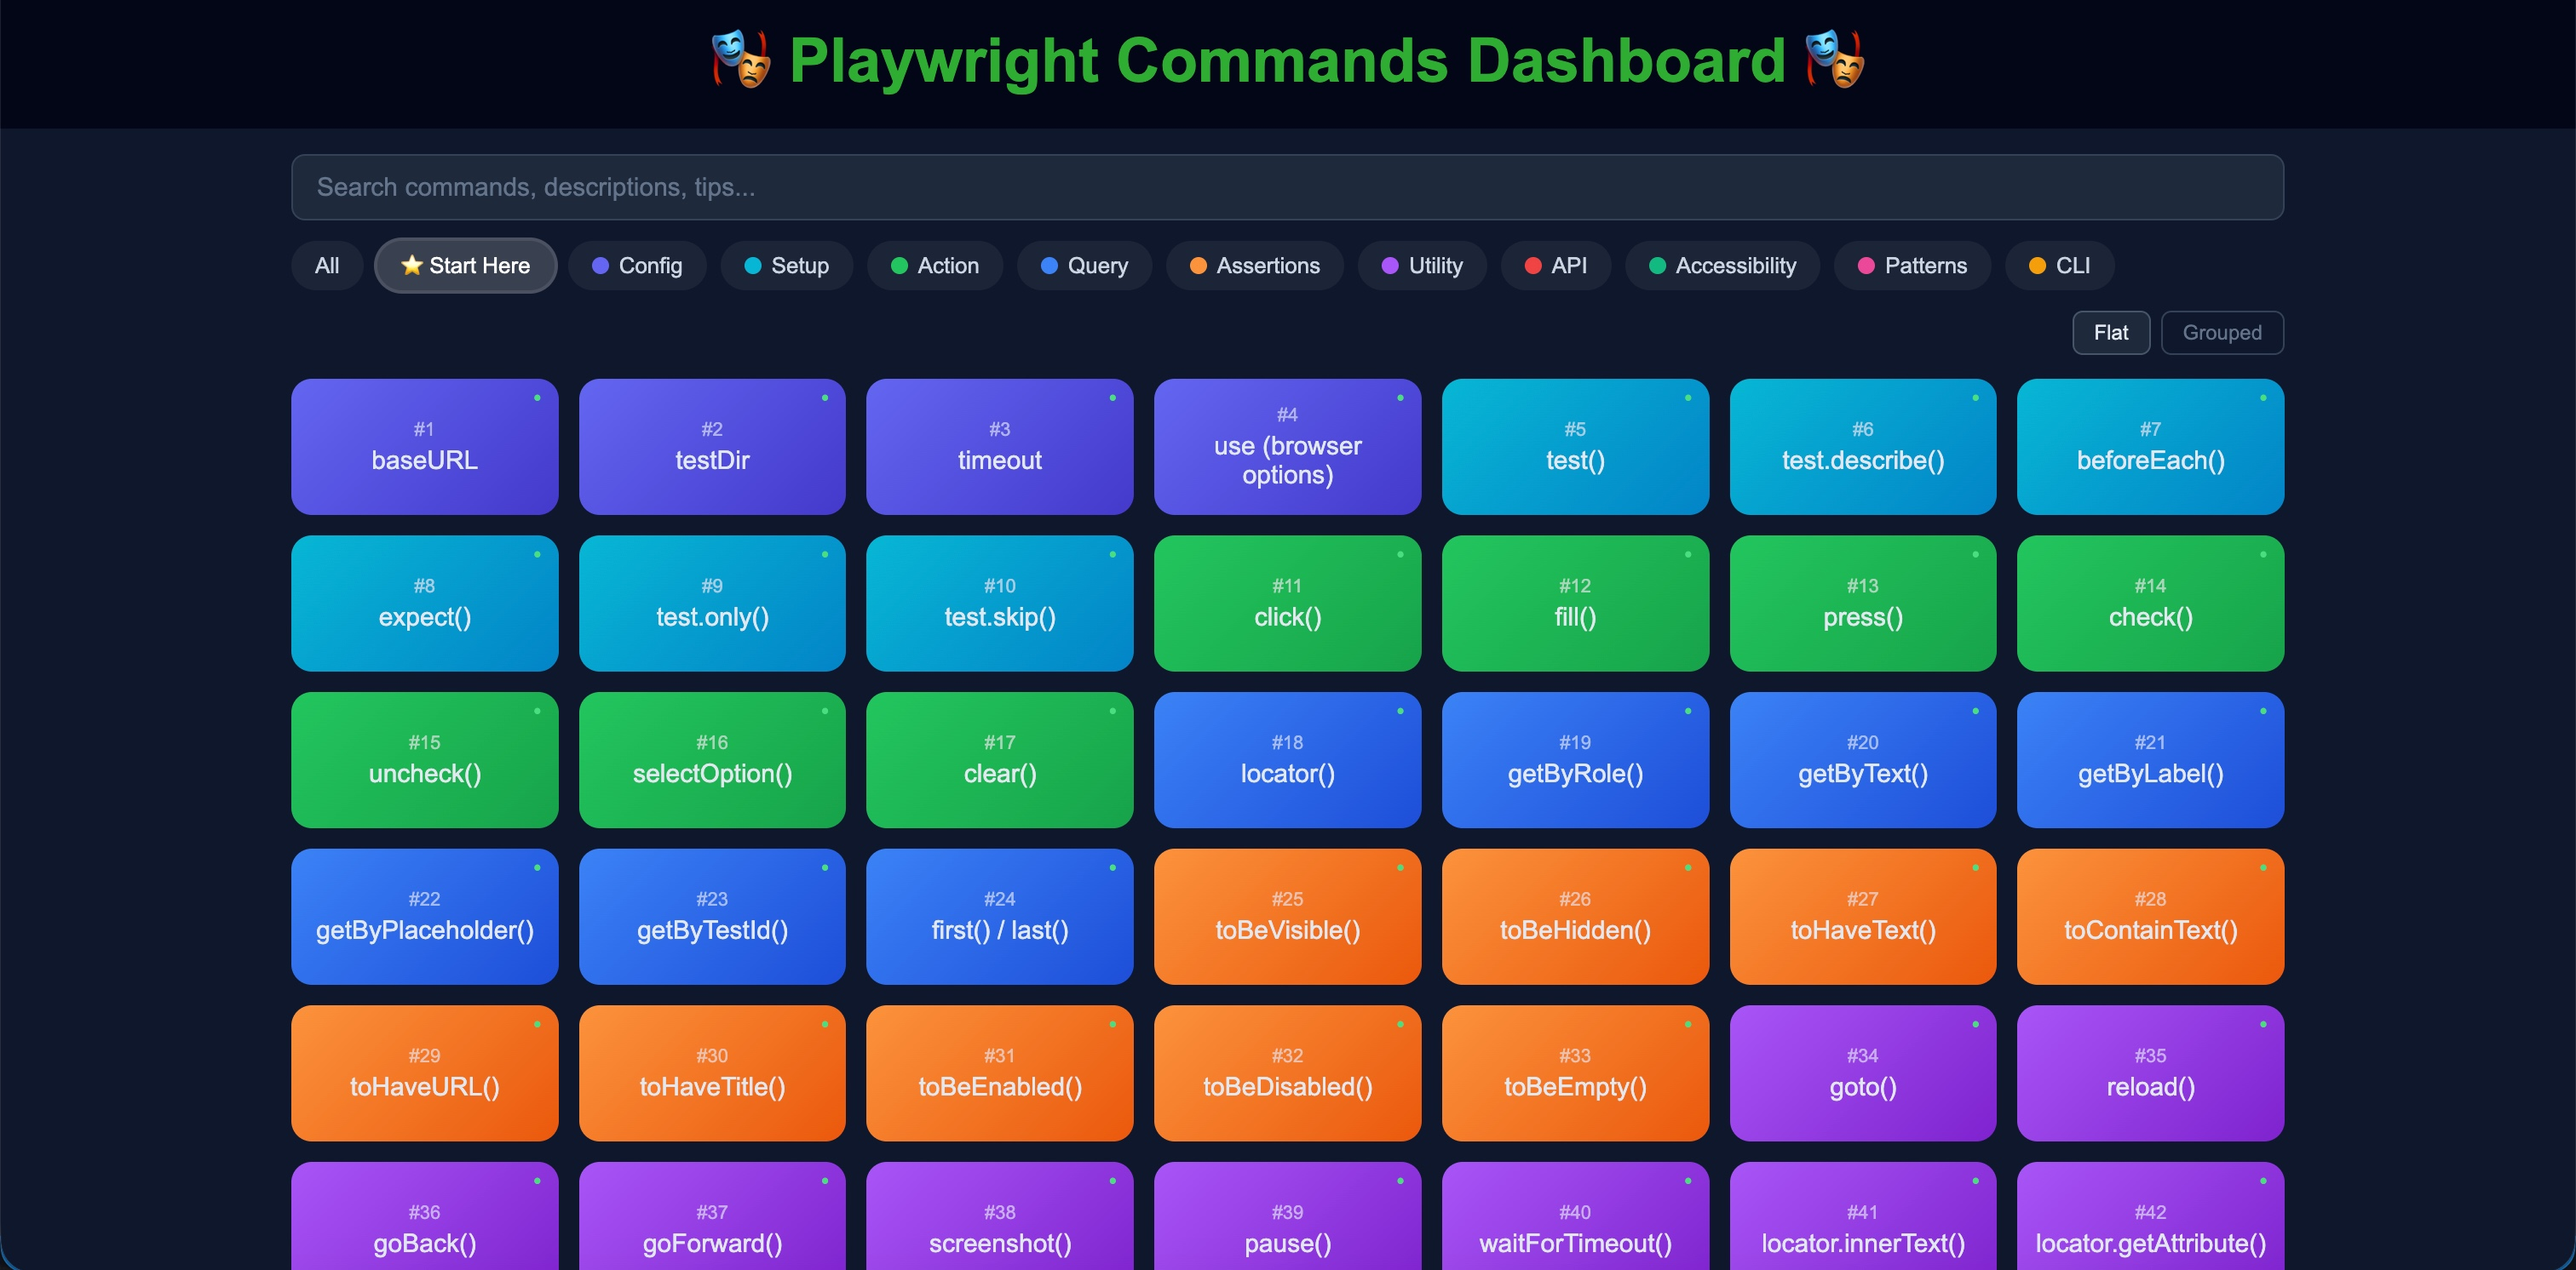
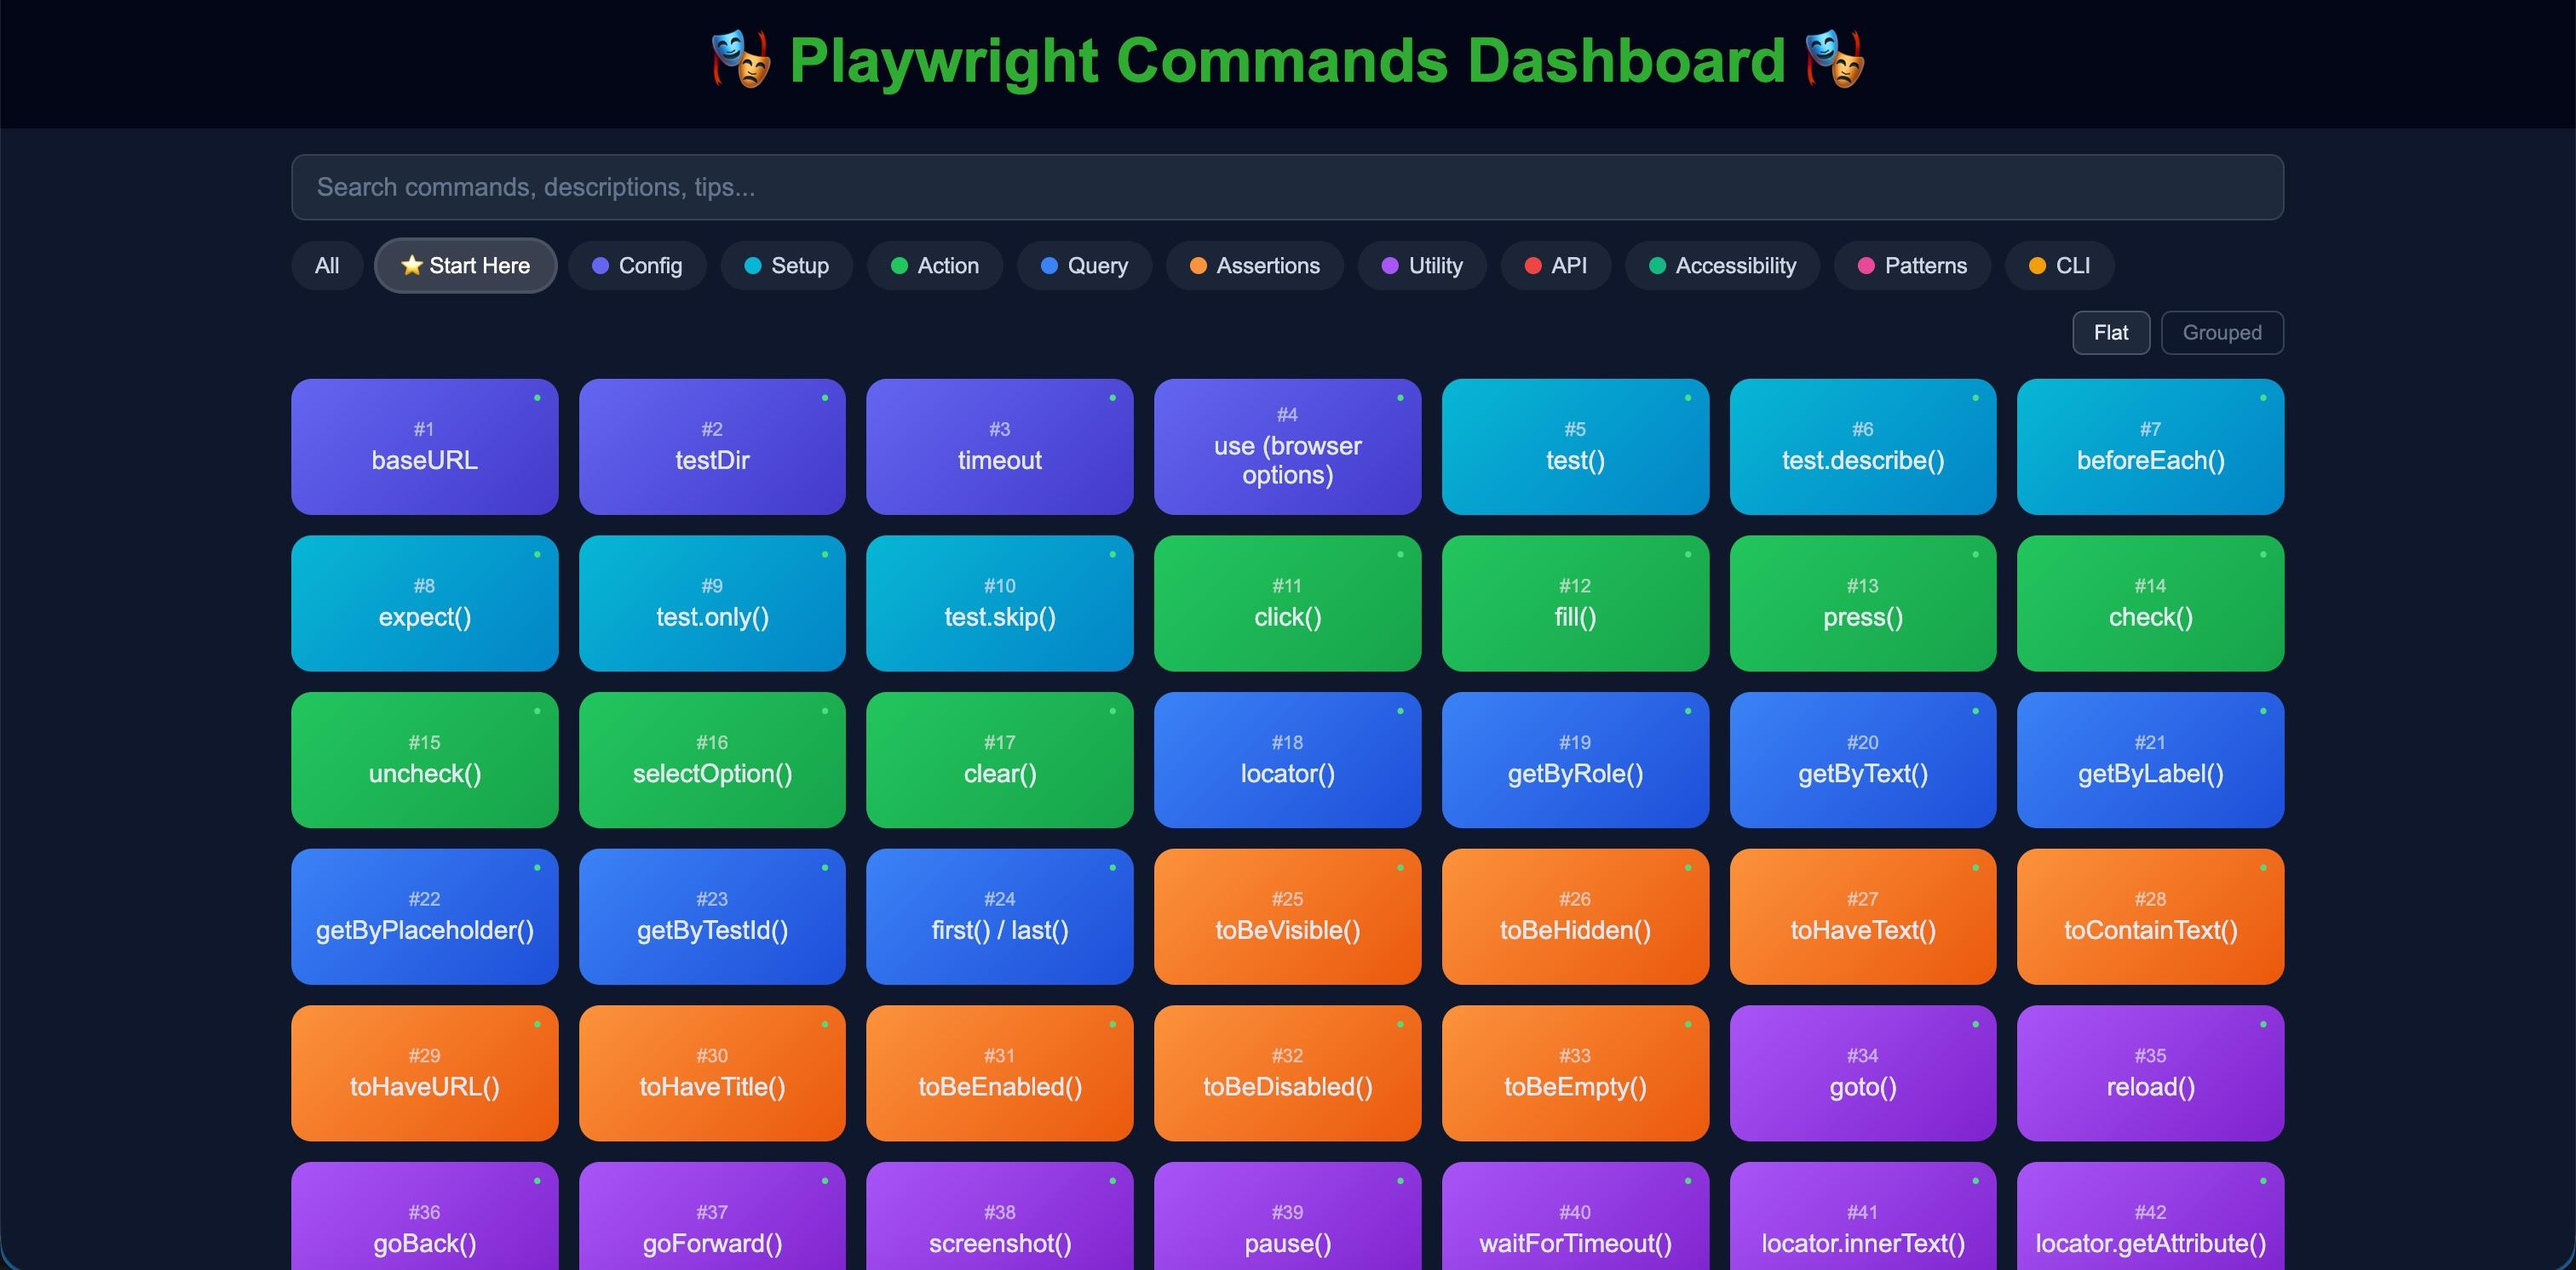
feat: add URL deep-linking, keyboard shortcut, and compressed images
- URL-shareable state: filter and search are reflected in the URL hash
  so users can bookmark or share specific views (e.g. #filter=Action&search=click)
- Keyboard shortcut: Ctrl+K / ⌘K focuses the search input; hint shown in
  the search bar adapts to Mac vs non-Mac platforms
- Image compression: dashboard.jpeg 608K→240K, description.png 746K→160K
  (converted to jpg); total saving ~870KB from the repo

https://claude.ai/code/session_01DCNpiST4oMDFgVBmtSh1Ww

Changed region(s): [[0.4663, 0.8324, 0.5284, 0.8633], [0.7149, 0.7091, 0.746, 0.7399]]

diff --git a/js/app.js b/js/app.js
@@ -159,12 +159,34 @@ function copyCode() {
   }, 2000);
 }
 
+/* ── URL STATE ────────────────────────────────────────────────── */
+function updateHash() {
+  const params = new URLSearchParams();
+  if (activeFilter !== 'all') params.set('filter', activeFilter);
+  if (searchVal) params.set('search', searchVal);
+  const qs = params.toString();
+  history.replaceState(null, '', qs ? '#' + qs : location.pathname + location.search);
+}
+
+function readHash() {
+  if (!location.hash) return;
+  const params = new URLSearchParams(location.hash.slice(1));
+  const filter = params.get('filter');
+  const search = params.get('search');
+  if (filter) activeFilter = filter;
+  if (search) {
+    searchVal = search.toLowerCase();
+    document.getElementById('search-input').value = search;
+  }
+}
+
 /* ── FILTERS & VIEW ───────────────────────────────────────────── */
 function setFilter(f) {
   activeFilter = f;
   document.querySelectorAll('.filter-btn').forEach(b =>
     b.classList.toggle('active', b.dataset.filter === f)
   );
+  updateHash();
   render();
 }
 
@@ -177,6 +199,7 @@ function setView(v) {
 
 function search(val) {
   searchVal = val.toLowerCase();
+  updateHash();
   render();
 }
 
@@ -202,8 +225,23 @@ function buildFilters() {
 /* ── KEYBOARD ─────────────────────────────────────────────────── */
 document.addEventListener('keydown', e => {
   if (e.key === 'Escape') closeModal();
+  if ((e.ctrlKey || e.metaKey) && e.key === 'k') {
+    e.preventDefault();
+    document.getElementById('search-input').focus();
+  }
 });
 
 /* ── INIT ─────────────────────────────────────────────────────── */
 buildFilters();
+readHash();
+// Sync filter button active state after reading hash
+document.querySelectorAll('.filter-btn').forEach(b =>
+  b.classList.toggle('active', b.dataset.filter === activeFilter)
+);
+// Show platform-appropriate keyboard shortcut hint
+(function () {
+  const isMac = /Mac|iPhone|iPad|iPod/.test(navigator.platform);
+  const el = document.getElementById('search-shortcut');
+  if (el) el.textContent = isMac ? '⌘K' : 'Ctrl+K';
+}());
 render();

diff --git a/style.css b/style.css
@@ -4,13 +4,20 @@ header { padding: 16px; text-align: center; font-size: 36px; font-weight: bold; 
 
 .container { padding: 15px; max-width: 1200px; margin: auto; }
 
+.search-wrap { position: relative; margin-bottom: 12px; }
 input[type=text] {
-  width: 100%; padding: 10px 14px; margin-bottom: 12px;
+  width: 100%; padding: 10px 70px 10px 14px;
   border-radius: 8px; border: 1px solid #334155;
   background: #1e293b; color: #e2e8f0; font-size: 15px;
 }
 input[type=text]::placeholder { color: #64748b; }
 input[type=text]:focus { outline: none; border-color: #64748b; }
+.search-shortcut {
+  position: absolute; right: 10px; top: 50%; transform: translateY(-50%);
+  background: #0f172a; border: 1px solid #334155; color: #475569;
+  padding: 2px 6px; border-radius: 4px; font-size: 11px; font-family: monospace;
+  pointer-events: none; user-select: none;
+}
 
 .filters { display: flex; gap: 8px; flex-wrap: wrap; margin-bottom: 12px; }
 .filter-btn {

diff --git a/index.html b/index.html
@@ -11,7 +11,10 @@
 <header>🎭 Playwright Commands Dashboard 🎭</header>
 
 <div class="container">
-  <input type="text" placeholder="Search commands, descriptions, tips..." oninput="search(this.value)">
+  <div class="search-wrap">
+    <input type="text" id="search-input" placeholder="Search commands, descriptions, tips..." aria-label="Search commands" oninput="search(this.value)">
+    <span class="search-shortcut" id="search-shortcut"></span>
+  </div>
   <div class="filters" id="filters"></div>
   <div class="toolbar">
     <button class="view-btn active" id="btnFlat"    onclick="setView('flat')">Flat</button>

diff --git a/readme.md b/readme.md
@@ -6,7 +6,7 @@ An interactive reference dashboard for Playwright test automation, designed for 
 
 ![Dashboard](images/dashboard.jpeg)
 
-![Description](images/description.png)
+![Description](images/description.jpg)
 
 ---
 
